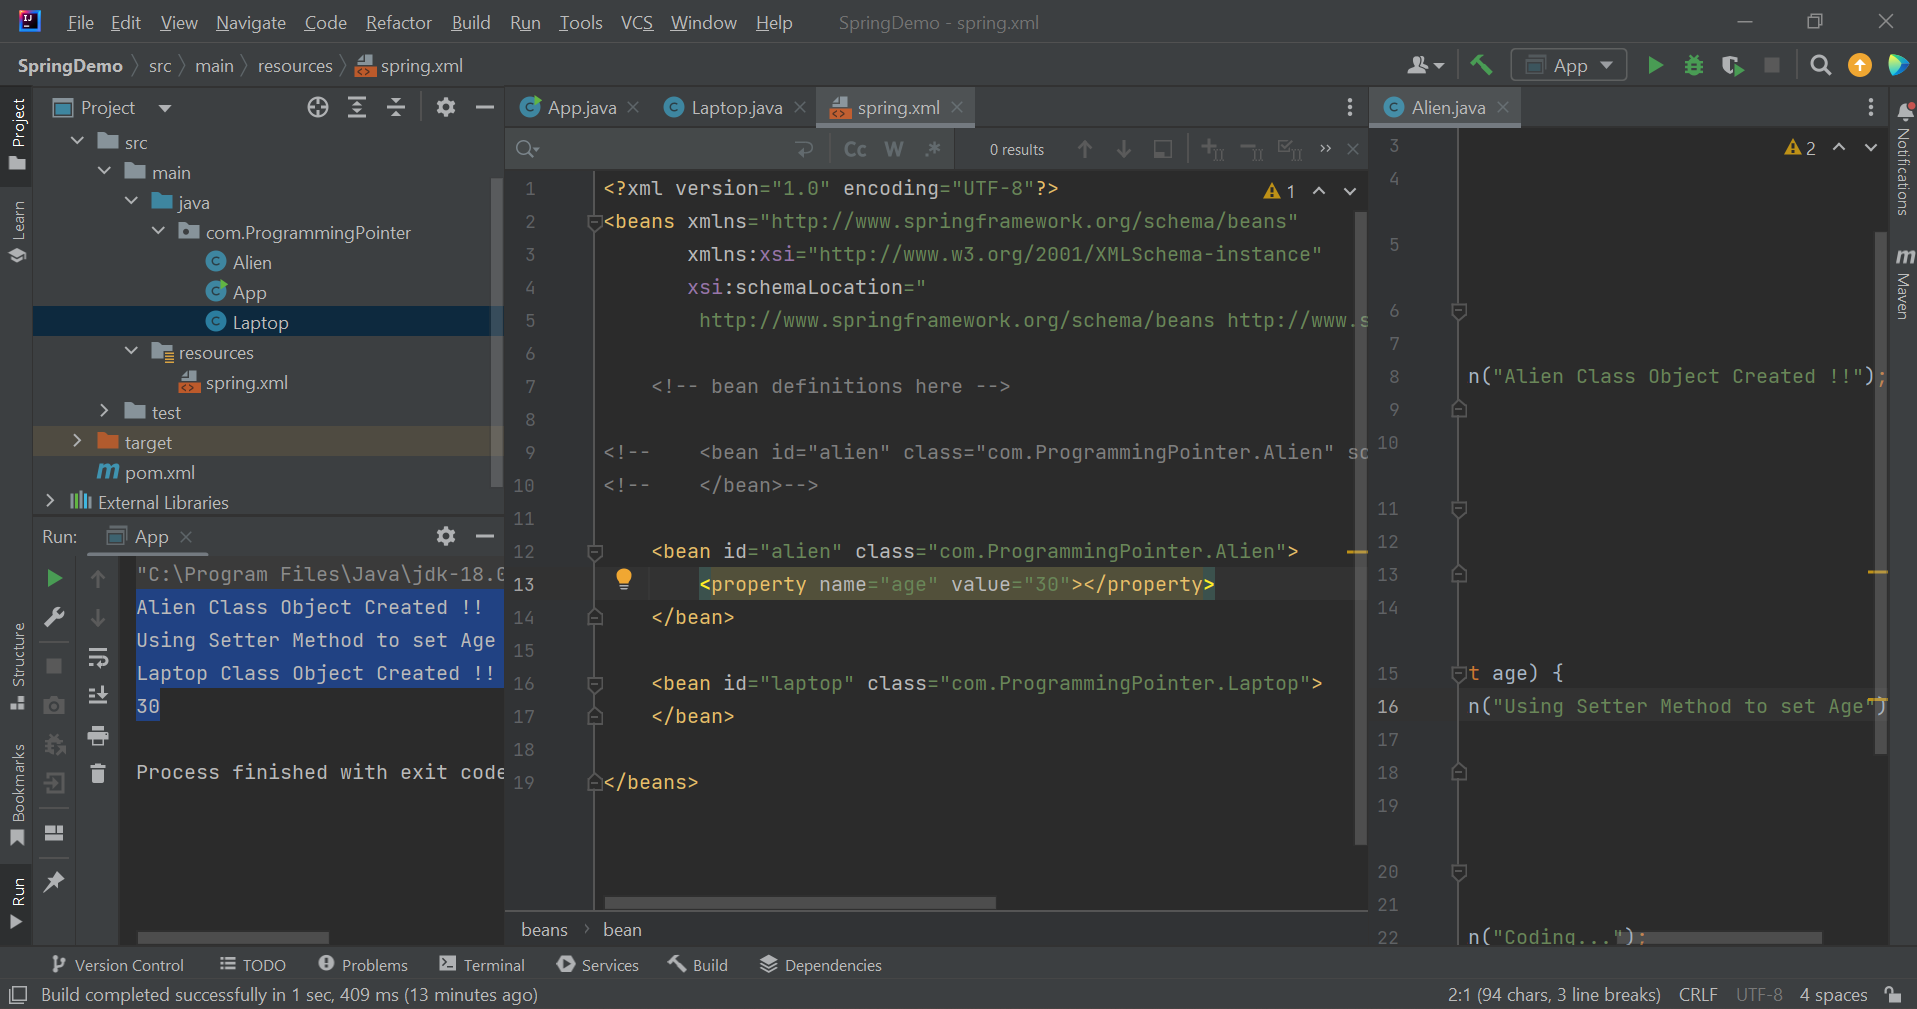
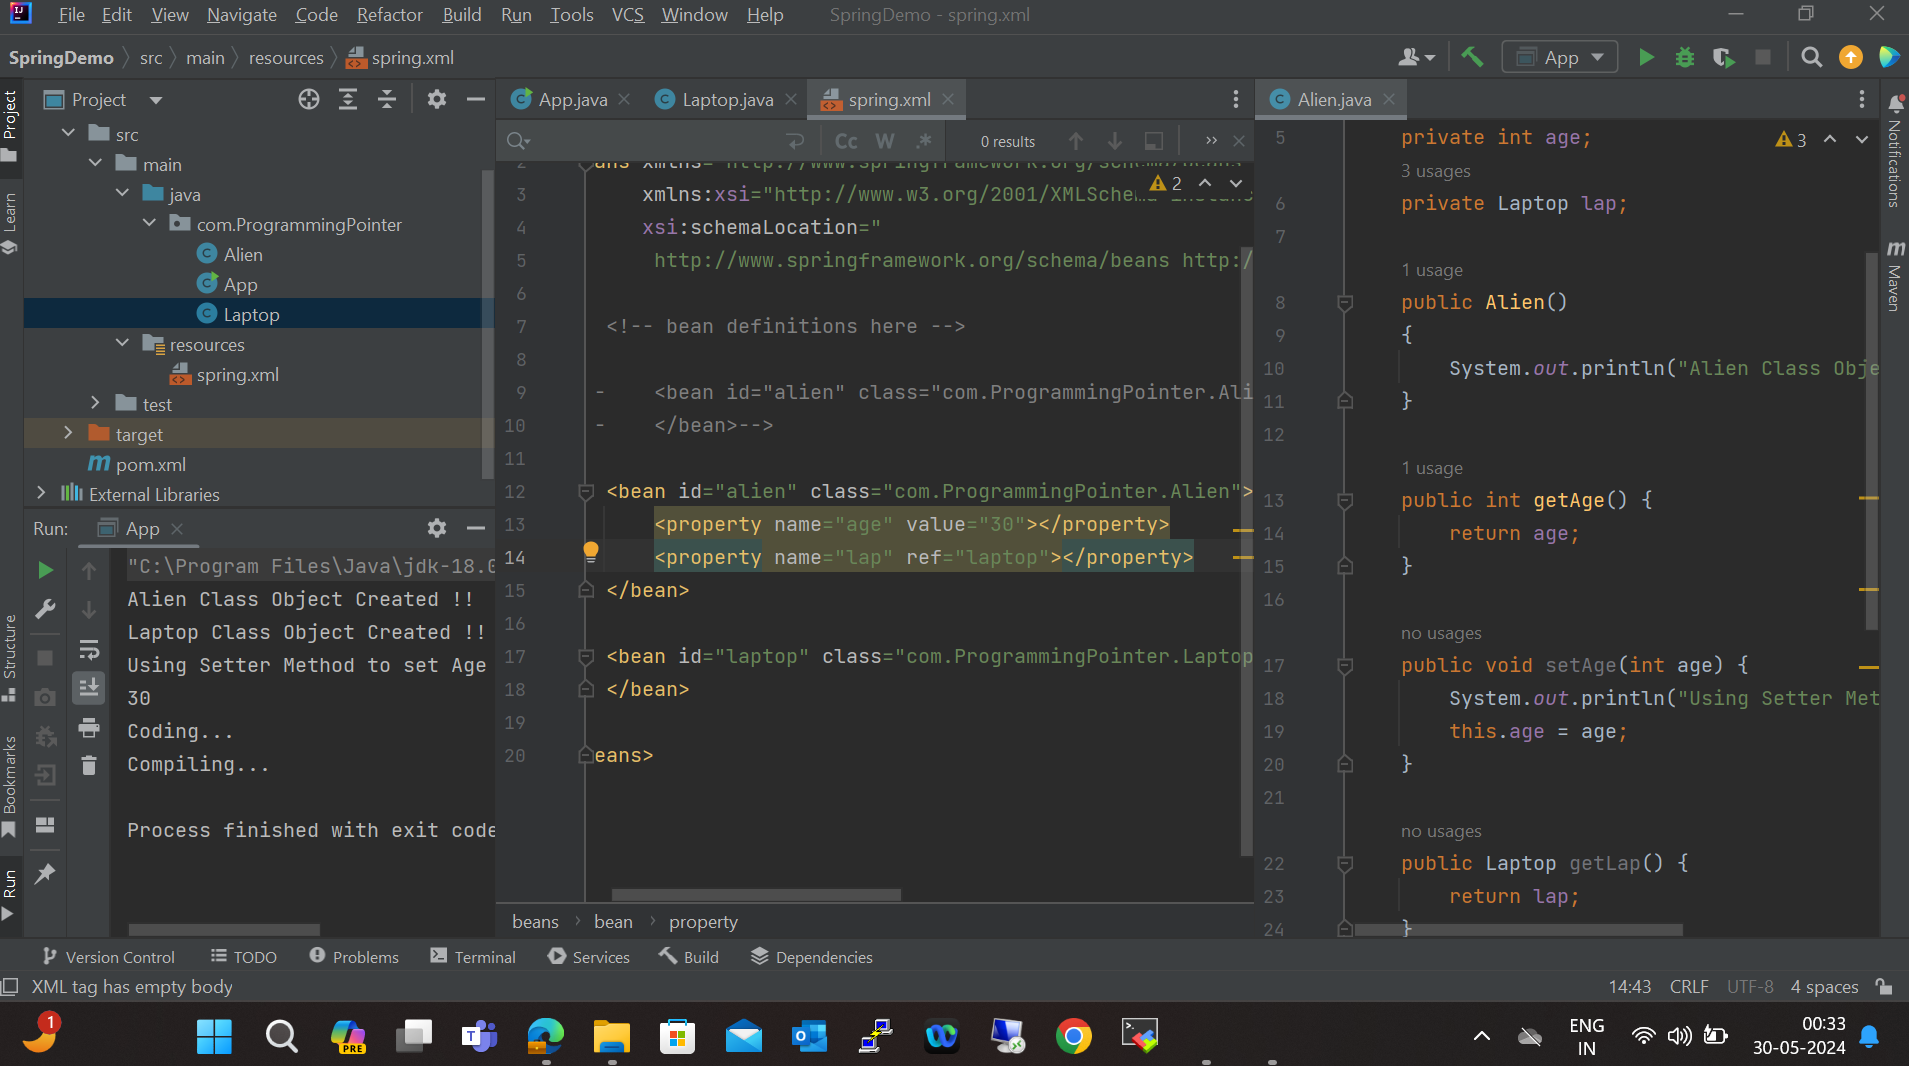
Spring_ReferenceAttribute
Alien Class Object Created !!
Laptop Class Object Created !!
Using Setter Method to set Age
30
Coding...
Compiling...

diff --git a/Spring_ReferenceAttribute/src/test/java/com/ProgrammingPointer/AppTest.java b/Spring_ReferenceAttribute/src/test/java/com/ProgrammingPointer/AppTest.java
@@ -1,0 +1,38 @@
+package com.ProgrammingPointer;
+
+import junit.framework.Test;
+import junit.framework.TestCase;
+import junit.framework.TestSuite;
+
+/**
+ * Unit test for simple App.
+ */
+public class AppTest 
+    extends TestCase
+{
+    /**
+     * Create the test case
+     *
+     * @param testName name of the test case
+     */
+    public AppTest( String testName )
+    {
+        super( testName );
+    }
+
+    /**
+     * @return the suite of tests being tested
+     */
+    public static Test suite()
+    {
+        return new TestSuite( AppTest.class );
+    }
+
+    /**
+     * Rigourous Test :-)
+     */
+    public void testApp()
+    {
+        assertTrue( true );
+    }
+}

diff --git a/Spring_ReferenceAttribute/src/main/java/com/ProgrammingPointer/App.java b/Spring_ReferenceAttribute/src/main/java/com/ProgrammingPointer/App.java
@@ -1,0 +1,26 @@
+package com.ProgrammingPointer;
+
+import org.springframework.context.ApplicationContext;
+import org.springframework.context.support.ClassPathXmlApplicationContext;
+
+/**
+ * Hello world!
+ *
+ */
+public class App 
+{
+    public static void main( String[] args )
+    {
+        //creating the container and spring.xml have config. of container
+        ApplicationContext context = new ClassPathXmlApplicationContext("spring.xml");
+
+        Alien obj = (Alien) context.getBean("alien");
+        //obj.setAge(10);
+        //set the age by using setter injection in spring.xml
+        System.out.println(obj.getAge());
+        obj.code();
+
+
+
+    }
+}

diff --git a/Spring_ReferenceAttribute/src/main/java/com/ProgrammingPointer/Alien.java b/Spring_ReferenceAttribute/src/main/java/com/ProgrammingPointer/Alien.java
@@ -1,0 +1,35 @@
+package com.ProgrammingPointer;
+
+public class Alien {
+
+    private int age;
+    private Laptop lap;
+
+    public Alien()
+    {
+        System.out.println("Alien Class Object Created !!");
+    }
+
+    public int getAge() {
+        return age;
+    }
+
+    public void setAge(int age) {
+        System.out.println("Using Setter Method to set Age");
+        this.age = age;
+    }
+
+    public Laptop getLap() {
+        return lap;
+    }
+
+    public void setLap(Laptop lap) {
+        this.lap = lap;
+    }
+
+    public void code()
+    {
+        System.out.println("Coding...");
+        lap.compile();
+    }
+}

diff --git a/Spring_ReferenceAttribute/src/main/java/com/ProgrammingPointer/Laptop.java b/Spring_ReferenceAttribute/src/main/java/com/ProgrammingPointer/Laptop.java
@@ -1,0 +1,13 @@
+package com.ProgrammingPointer;
+
+public class Laptop {
+    public Laptop()
+    {
+        System.out.println("Laptop Class Object Created !!");
+    }
+
+    public void compile()
+    {
+        System.out.println("Compiling...");
+    }
+}
